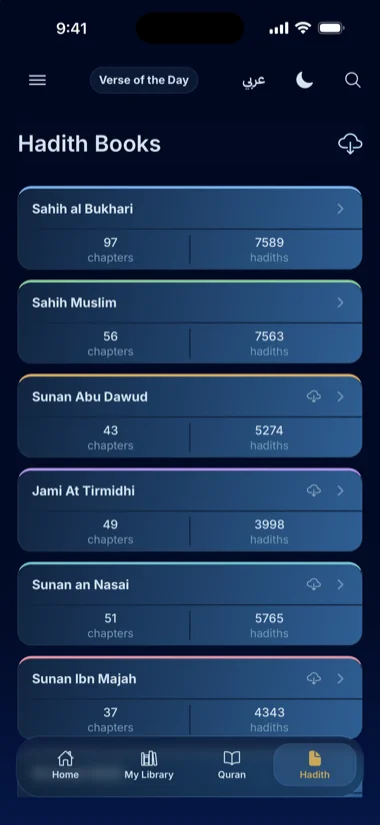
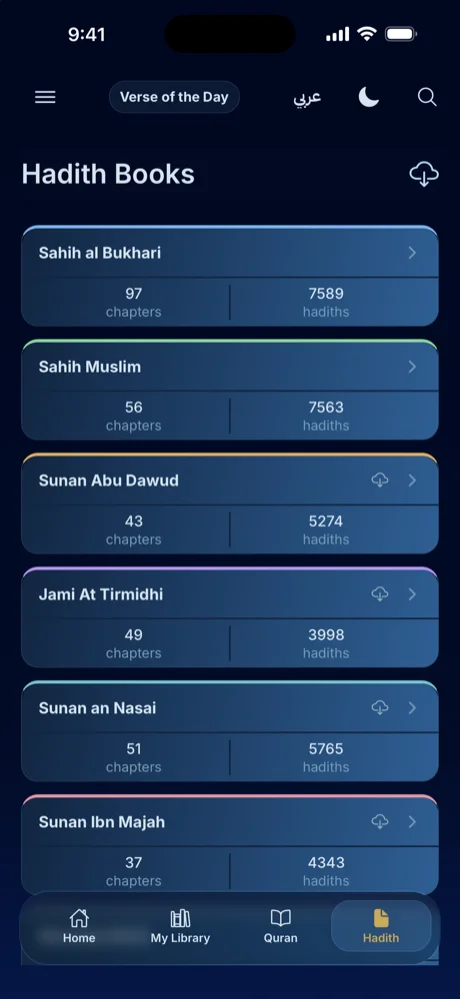
Enlarge screenshots further (170px -> 200px) and widen section containers
Re-exported source images at higher resolution to stay sharp at the larger
display size. Section/row max-widths bumped slightly so the text column
doesn't get squeezed by the wider screenshot slot.

diff --git a/quran-atlas/index.html b/quran-atlas/index.html
@@ -90,21 +90,21 @@ html[data-lang="ar"] .hero .sub { font-size:18.5px; }
   .badge-img.apple-light { display:none; }
 }
 
-.section { max-width:1000px; margin:0 auto; padding:36px 28px; }
+.section { max-width:1080px; margin:0 auto; padding:36px 28px; }
 .sec-inner { display:flex; flex-direction:column; gap:16px; }
 /* Two-column alternating layout: text on one side, a screenshot placeholder on the other.
    .reverse flips which side is which via flex-direction only — the text column's DOM order
    never changes, so reading order stays consistent for assistive tech either way. */
-.sec-row { display:flex; align-items:center; gap:48px; max-width:900px; margin:0 auto; }
+.sec-row { display:flex; align-items:center; gap:48px; max-width:980px; margin:0 auto; }
 .sec-row.reverse { flex-direction:row-reverse; }
 .sec-row .sec-copy { flex:1 1 0; min-width:0; }
 /* Raw device screenshots (no marketing banner — these are plain captures), two per section,
    each shipped as a light/dark pair. Only one of each pair is display:block at a time — the
    same toggle mechanism as the Apple badge light/dark swap above — so the screenshots always
    match whichever theme the visitor is in rather than being a static asset. */
-.sec-shot { flex:0 0 380px; display:flex; align-items:flex-start; justify-content:center; gap:16px; flex-wrap:wrap; }
+.sec-shot { flex:0 0 440px; display:flex; align-items:flex-start; justify-content:center; gap:16px; flex-wrap:wrap; }
 .sec-shot img {
-  width:170px; height:auto; border-radius:22px; display:block;
+  width:200px; height:auto; border-radius:24px; display:block;
   border: 1px solid var(--border-solid);
   /* A soft accent-tinted halo (first value) plus a deeper, larger drop shadow than a plain
      card would need — this is the "pop" lever instead of inverting light/dark screenshots
@@ -131,16 +131,16 @@ html[data-lang="ar"] .hero .sub { font-size:18.5px; }
    portrait verse-detail shot, instead of the uniform side-by-side pair every other
    section uses — the landscape image reads poorly at the standard 140px portrait width. */
 .sec-shot.stacked { flex-direction:column; align-items:center; }
-.sec-shot.stacked img.shot-wide { width:340px; }
+.sec-shot.stacked img.shot-wide { width:400px; }
 .sec-shot.stacked .shot-row { display:flex; gap:14px; justify-content:center; }
-.sec-shot.stacked img.shot-narrow { width:180px; }
+.sec-shot.stacked img.shot-narrow { width:210px; }
 @media (max-width: 760px) {
   .sec-row, .sec-row.reverse { flex-direction:column; gap:28px; }
   .sec-shot { flex:0 0 auto; gap:12px; }
-  .sec-shot img { width:150px; }
-  .sec-shot.stacked img.shot-wide { width:280px; }
+  .sec-shot img { width:175px; }
+  .sec-shot.stacked img.shot-wide { width:320px; }
   .sec-shot.stacked .shot-row { gap:10px; }
-  .sec-shot.stacked img.shot-narrow { width:140px; }
+  .sec-shot.stacked img.shot-narrow { width:165px; }
 }
 
 .sec-icon { display:inline-flex; color: var(--accent); }
@@ -250,10 +250,10 @@ footer.site-footer .copyright { margin-top:20px; font-size:12px; color: var(--te
         </ul>
       </div>
       <div class="sec-shot">
-        <img class="shot-light" src="/quran-atlas/assets/img/screenshots/study-blocks-light.webp" width="170" height="369" loading="lazy" alt="A Quran Atlas topic page with page-style blocks — a heading, a Quran verse, and a Hadith">
-        <img class="shot-dark" src="/quran-atlas/assets/img/screenshots/study-blocks-dark.webp" width="170" height="369" loading="lazy" alt="A Quran Atlas topic page with page-style blocks — a heading, a Quran verse, and a Hadith">
-        <img class="shot-light" src="/quran-atlas/assets/img/screenshots/study-addblock-light.webp" width="170" height="369" loading="lazy" alt="The Add Block menu — Ayah, Hadith, Heading, Text, Table, Link, Image, and Mention">
-        <img class="shot-dark" src="/quran-atlas/assets/img/screenshots/study-addblock-dark.webp" width="170" height="369" loading="lazy" alt="The Add Block menu — Ayah, Hadith, Heading, Text, Table, Link, Image, and Mention">
+        <img class="shot-light" src="/quran-atlas/assets/img/screenshots/study-blocks-light.webp" width="200" height="434" loading="lazy" alt="A Quran Atlas topic page with page-style blocks — a heading, a Quran verse, and a Hadith">
+        <img class="shot-dark" src="/quran-atlas/assets/img/screenshots/study-blocks-dark.webp" width="200" height="434" loading="lazy" alt="A Quran Atlas topic page with page-style blocks — a heading, a Quran verse, and a Hadith">
+        <img class="shot-light" src="/quran-atlas/assets/img/screenshots/study-addblock-light.webp" width="200" height="434" loading="lazy" alt="The Add Block menu — Ayah, Hadith, Heading, Text, Table, Link, Image, and Mention">
+        <img class="shot-dark" src="/quran-atlas/assets/img/screenshots/study-addblock-dark.webp" width="200" height="434" loading="lazy" alt="The Add Block menu — Ayah, Hadith, Heading, Text, Table, Link, Image, and Mention">
       </div>
     </div>
   </div>
@@ -277,13 +277,13 @@ footer.site-footer .copyright { margin-top:20px; font-size:12px; color: var(--te
         </ul>
       </div>
       <div class="sec-shot stacked">
-        <img class="shot-light shot-wide" src="/quran-atlas/assets/img/screenshots/read-mushaf2page-light.webp" width="340" height="156" loading="lazy" alt="Two Mushaf pages shown in two-page landscape layout">
-        <img class="shot-dark shot-wide" src="/quran-atlas/assets/img/screenshots/read-mushaf2page-dark.webp" width="340" height="156" loading="lazy" alt="Two Mushaf pages shown in two-page landscape layout">
+        <img class="shot-light shot-wide" src="/quran-atlas/assets/img/screenshots/read-mushaf2page-light.webp" width="400" height="184" loading="lazy" alt="Two Mushaf pages shown in two-page landscape layout">
+        <img class="shot-dark shot-wide" src="/quran-atlas/assets/img/screenshots/read-mushaf2page-dark.webp" width="400" height="184" loading="lazy" alt="Two Mushaf pages shown in two-page landscape layout">
         <div class="shot-row">
-          <img class="shot-light shot-narrow" src="/quran-atlas/assets/img/screenshots/read-versedetail-light.webp" width="180" height="391" loading="lazy" alt="A verse detail panel showing translation, tafsir, reason for revelation, reflections, lessons, and voice memos">
-          <img class="shot-dark shot-narrow" src="/quran-atlas/assets/img/screenshots/read-versedetail-dark.webp" width="180" height="391" loading="lazy" alt="A verse detail panel showing translation, tafsir, reason for revelation, reflections, lessons, and voice memos">
-          <img class="shot-light shot-narrow" src="/quran-atlas/assets/img/screenshots/read-tajweed-light.webp" width="180" height="391" loading="lazy" alt="Tajweed color-coding applied to the Quran text, rule by rule">
-          <img class="shot-dark shot-narrow" src="/quran-atlas/assets/img/screenshots/read-tajweed-dark.webp" width="180" height="391" loading="lazy" alt="Tajweed color-coding applied to the Quran text, rule by rule">
+          <img class="shot-light shot-narrow" src="/quran-atlas/assets/img/screenshots/read-versedetail-light.webp" width="210" height="456" loading="lazy" alt="A verse detail panel showing translation, tafsir, reason for revelation, reflections, lessons, and voice memos">
+          <img class="shot-dark shot-narrow" src="/quran-atlas/assets/img/screenshots/read-versedetail-dark.webp" width="210" height="456" loading="lazy" alt="A verse detail panel showing translation, tafsir, reason for revelation, reflections, lessons, and voice memos">
+          <img class="shot-light shot-narrow" src="/quran-atlas/assets/img/screenshots/read-tajweed-light.webp" width="210" height="456" loading="lazy" alt="Tajweed color-coding applied to the Quran text, rule by rule">
+          <img class="shot-dark shot-narrow" src="/quran-atlas/assets/img/screenshots/read-tajweed-dark.webp" width="210" height="456" loading="lazy" alt="Tajweed color-coding applied to the Quran text, rule by rule">
         </div>
       </div>
     </div>
@@ -304,10 +304,10 @@ footer.site-footer .copyright { margin-top:20px; font-size:12px; color: var(--te
         </ul>
       </div>
       <div class="sec-shot">
-        <img class="shot-light" src="/quran-atlas/assets/img/screenshots/organize-bookmarks-light.webp" width="170" height="369" loading="lazy" alt="Bookmarks organized into groups">
-        <img class="shot-dark" src="/quran-atlas/assets/img/screenshots/organize-bookmarks-dark.webp" width="170" height="369" loading="lazy" alt="Bookmarks organized into groups">
-        <img class="shot-light" src="/quran-atlas/assets/img/screenshots/organize-highlights-light.webp" width="170" height="369" loading="lazy" alt="Highlight color key with labels like Patience, Gratitude, and Mercy">
-        <img class="shot-dark" src="/quran-atlas/assets/img/screenshots/organize-highlights-dark.webp" width="170" height="369" loading="lazy" alt="Highlight color key with labels like Patience, Gratitude, and Mercy">
+        <img class="shot-light" src="/quran-atlas/assets/img/screenshots/organize-bookmarks-light.webp" width="200" height="434" loading="lazy" alt="Bookmarks organized into groups">
+        <img class="shot-dark" src="/quran-atlas/assets/img/screenshots/organize-bookmarks-dark.webp" width="200" height="434" loading="lazy" alt="Bookmarks organized into groups">
+        <img class="shot-light" src="/quran-atlas/assets/img/screenshots/organize-highlights-light.webp" width="200" height="434" loading="lazy" alt="Highlight color key with labels like Patience, Gratitude, and Mercy">
+        <img class="shot-dark" src="/quran-atlas/assets/img/screenshots/organize-highlights-dark.webp" width="200" height="434" loading="lazy" alt="Highlight color key with labels like Patience, Gratitude, and Mercy">
       </div>
     </div>
   </div>
@@ -327,10 +327,10 @@ footer.site-footer .copyright { margin-top:20px; font-size:12px; color: var(--te
         </ul>
       </div>
       <div class="sec-shot">
-        <img class="shot-light" src="/quran-atlas/assets/img/screenshots/search-results-light.webp" width="170" height="369" loading="lazy" alt="Search results for 'patience' across the Quran, Hadith, topics, and tafsir">
-        <img class="shot-dark" src="/quran-atlas/assets/img/screenshots/search-results-dark.webp" width="170" height="369" loading="lazy" alt="Search results for 'patience' across the Quran, Hadith, topics, and tafsir">
-        <img class="shot-light" src="/quran-atlas/assets/img/screenshots/search-categories-light.webp" width="170" height="369" loading="lazy" alt="Search categories — Faith & Belief, Worship, Character, and Afterlife">
-        <img class="shot-dark" src="/quran-atlas/assets/img/screenshots/search-categories-dark.webp" width="170" height="369" loading="lazy" alt="Search categories — Faith & Belief, Worship, Character, and Afterlife">
+        <img class="shot-light" src="/quran-atlas/assets/img/screenshots/search-results-light.webp" width="200" height="434" loading="lazy" alt="Search results for 'patience' across the Quran, Hadith, topics, and tafsir">
+        <img class="shot-dark" src="/quran-atlas/assets/img/screenshots/search-results-dark.webp" width="200" height="434" loading="lazy" alt="Search results for 'patience' across the Quran, Hadith, topics, and tafsir">
+        <img class="shot-light" src="/quran-atlas/assets/img/screenshots/search-categories-light.webp" width="200" height="434" loading="lazy" alt="Search categories — Faith & Belief, Worship, Character, and Afterlife">
+        <img class="shot-dark" src="/quran-atlas/assets/img/screenshots/search-categories-dark.webp" width="200" height="434" loading="lazy" alt="Search categories — Faith & Belief, Worship, Character, and Afterlife">
       </div>
     </div>
   </div>
@@ -351,10 +351,10 @@ footer.site-footer .copyright { margin-top:20px; font-size:12px; color: var(--te
         </ul>
       </div>
       <div class="sec-shot">
-        <img class="shot-light" src="/quran-atlas/assets/img/screenshots/share-refcard-light.webp" width="170" height="369" loading="lazy" alt="A Reference Card grouping verses and Hadith that answer a question">
-        <img class="shot-dark" src="/quran-atlas/assets/img/screenshots/share-refcard-dark.webp" width="170" height="369" loading="lazy" alt="A Reference Card grouping verses and Hadith that answer a question">
-        <img class="shot-light" src="/quran-atlas/assets/img/screenshots/share-playlist-light.webp" width="170" height="369" loading="lazy" alt="A Playlist of surahs and ayat with a repeat count for each item">
-        <img class="shot-dark" src="/quran-atlas/assets/img/screenshots/share-playlist-dark.webp" width="170" height="369" loading="lazy" alt="A Playlist of surahs and ayat with a repeat count for each item">
+        <img class="shot-light" src="/quran-atlas/assets/img/screenshots/share-refcard-light.webp" width="200" height="434" loading="lazy" alt="A Reference Card grouping verses and Hadith that answer a question">
+        <img class="shot-dark" src="/quran-atlas/assets/img/screenshots/share-refcard-dark.webp" width="200" height="434" loading="lazy" alt="A Reference Card grouping verses and Hadith that answer a question">
+        <img class="shot-light" src="/quran-atlas/assets/img/screenshots/share-playlist-light.webp" width="200" height="434" loading="lazy" alt="A Playlist of surahs and ayat with a repeat count for each item">
+        <img class="shot-dark" src="/quran-atlas/assets/img/screenshots/share-playlist-dark.webp" width="200" height="434" loading="lazy" alt="A Playlist of surahs and ayat with a repeat count for each item">
       </div>
     </div>
   </div>
@@ -369,10 +369,10 @@ footer.site-footer .copyright { margin-top:20px; font-size:12px; color: var(--te
         <p class="sec-sub"><span data-en>Browse 10 Hadith collections in Arabic and English — Sahih al-Bukhari and Sahih Muslim included, with 8 more to download, including Sunan Abu Dawud, Jami At-Tirmidhi, Sunan an-Nasai, and Sunan Ibn Majah. Add notes and voice memos, and pick up with Continue Hadith.</span><span data-ar>تصفّح 10 مجموعات حديثية بالعربية والإنجليزية — صحيح البخاري وصحيح مسلم متوفّران مباشرة، مع 8 مجموعات إضافية للتحميل، منها سنن أبي داود وجامع الترمذي وسنن النسائي وسنن ابن ماجه. أضف ملاحظات ومذكرات صوتية، وتابع من حيث توقفت عبر «متابعة الأحاديث».</span></p>
       </div>
       <div class="sec-shot">
-        <img class="shot-light" src="/quran-atlas/assets/img/screenshots/hadith-books-light.webp" width="170" height="369" loading="lazy" alt="Hadith Books list showing Sahih al-Bukhari, Sahih Muslim, and more">
-        <img class="shot-dark" src="/quran-atlas/assets/img/screenshots/hadith-books-dark.webp" width="170" height="369" loading="lazy" alt="Hadith Books list showing Sahih al-Bukhari, Sahih Muslim, and more">
-        <img class="shot-light" src="/quran-atlas/assets/img/screenshots/hadith-detail-light.webp" width="170" height="369" loading="lazy" alt="A Hadith detail page with Arabic text, English translation, and related Hadith">
-        <img class="shot-dark" src="/quran-atlas/assets/img/screenshots/hadith-detail-dark.webp" width="170" height="369" loading="lazy" alt="A Hadith detail page with Arabic text, English translation, and related Hadith">
+        <img class="shot-light" src="/quran-atlas/assets/img/screenshots/hadith-books-light.webp" width="200" height="434" loading="lazy" alt="Hadith Books list showing Sahih al-Bukhari, Sahih Muslim, and more">
+        <img class="shot-dark" src="/quran-atlas/assets/img/screenshots/hadith-books-dark.webp" width="200" height="434" loading="lazy" alt="Hadith Books list showing Sahih al-Bukhari, Sahih Muslim, and more">
+        <img class="shot-light" src="/quran-atlas/assets/img/screenshots/hadith-detail-light.webp" width="200" height="434" loading="lazy" alt="A Hadith detail page with Arabic text, English translation, and related Hadith">
+        <img class="shot-dark" src="/quran-atlas/assets/img/screenshots/hadith-detail-dark.webp" width="200" height="434" loading="lazy" alt="A Hadith detail page with Arabic text, English translation, and related Hadith">
       </div>
     </div>
   </div>
@@ -392,8 +392,8 @@ footer.site-footer .copyright { margin-top:20px; font-size:12px; color: var(--te
         </ul>
       </div>
       <div class="sec-shot">
-        <img class="shot-light" src="/quran-atlas/assets/img/screenshots/everyone-topics-light.webp" width="170" height="369" loading="lazy" alt="Featured Topics for newcomers exploring Islamic beliefs and teachings">
-        <img class="shot-dark" src="/quran-atlas/assets/img/screenshots/everyone-topics-dark.webp" width="170" height="369" loading="lazy" alt="Featured Topics for newcomers exploring Islamic beliefs and teachings">
+        <img class="shot-light" src="/quran-atlas/assets/img/screenshots/everyone-topics-light.webp" width="200" height="434" loading="lazy" alt="Featured Topics for newcomers exploring Islamic beliefs and teachings">
+        <img class="shot-dark" src="/quran-atlas/assets/img/screenshots/everyone-topics-dark.webp" width="200" height="434" loading="lazy" alt="Featured Topics for newcomers exploring Islamic beliefs and teachings">
       </div>
     </div>
   </div>
